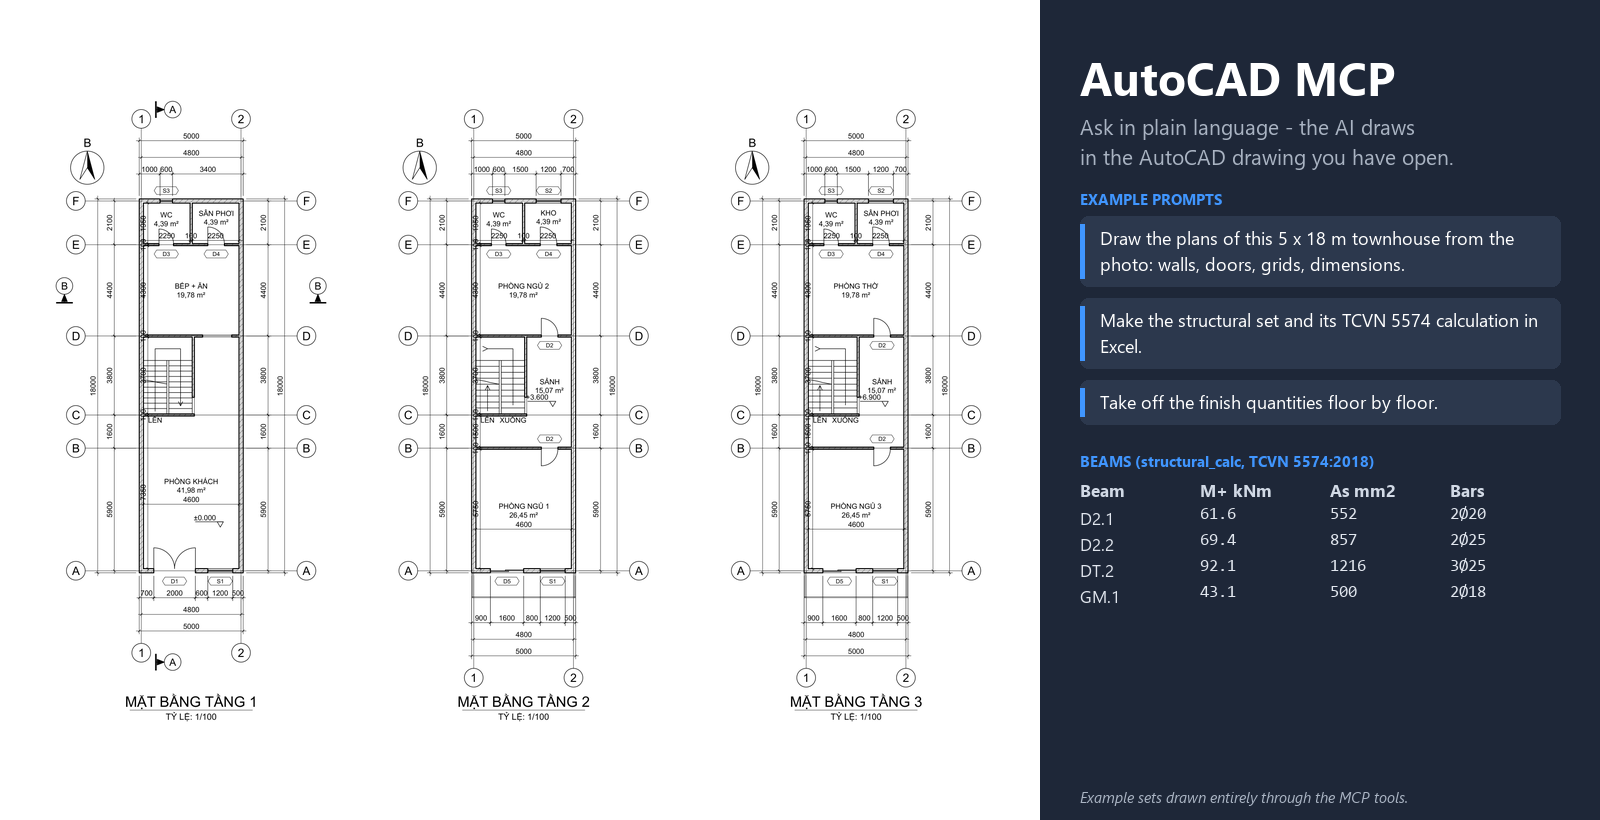
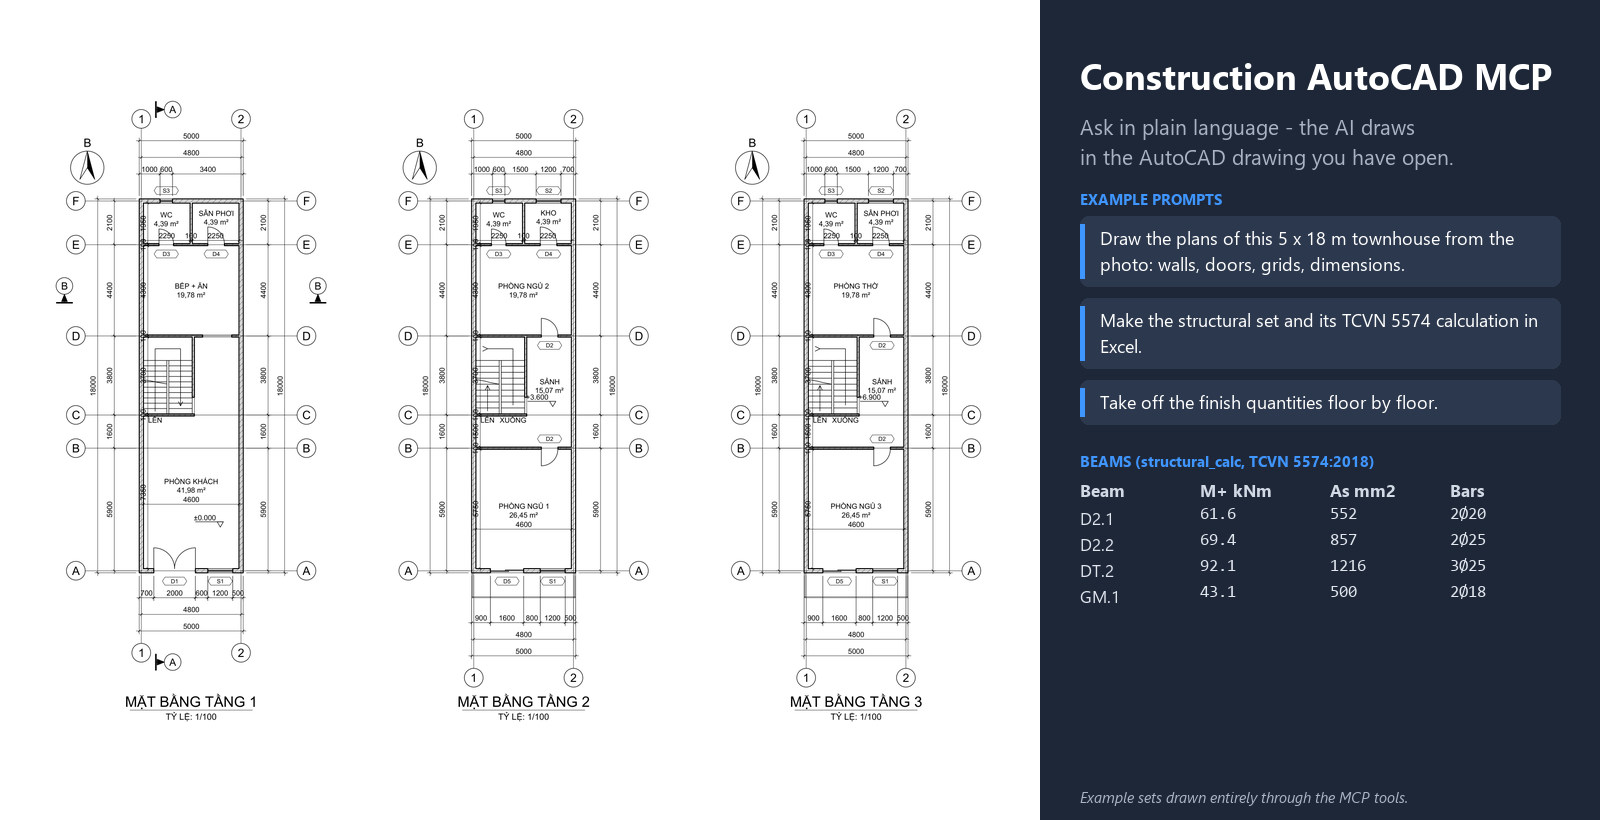
Construction AutoCAD MCP 1.2.1: rename from AutoCAD MCP
- Product name Construction AutoCAD MCP, package construction-autocad-mcp, repository
  2ez4gcx/construction-autocad-mcp; the extension asks to remove the old AutoCAD MCP one.
- MCP Registry: server.json publishes io.github.2ez4gcx/construction-autocad-mcp 1.2.1;
  the mcp-registry-status workflow deprecates the old io.github.2ez4gcx/autocad-mcp entry.
- README images carry the new name.

Changed region(s): [[0.6562, 0.061, 0.9688, 0.122]]

diff --git a/bridge/src/Bridge.cs b/bridge/src/Bridge.cs
@@ -86,7 +86,7 @@ namespace AcadMcp
 
     public static class Bridge
     {
-        public static readonly string VERSION = "1.2.0";
+        public static readonly string VERSION = "1.2.1";
         const int MaxRequestBytes = 64 * 1024 * 1024;
 
         static Control _ui;
@@ -415,7 +415,7 @@ namespace AcadMcp
             {
                 try { Bridge.Start(); } catch (Exception e) { Say("Cannot start: " + e.Message); }
             }
-            Say(Bridge.Status() + "  Set the same port in Claude (Settings > Extensions > AutoCAD MCP > Configure).");
+            Say(Bridge.Status() + "  Set the same port in Claude (Settings > Extensions > Construction AutoCAD MCP > Configure).");
         }
 
         [CommandMethod("MCPLOG", CommandFlags.Modal)]

diff --git a/README.vi.md b/README.vi.md
@@ -1,14 +1,14 @@
-# AutoCAD MCP
+# Construction AutoCAD MCP
 
 [English](README.md) | **Tiếng Việt**
 
-![AutoCAD MCP: yêu cầu bằng lời, AI vẽ trực tiếp trong bản vẽ AutoCAD đang mở](docs/images/hero.png)
+![Construction AutoCAD MCP: yêu cầu bằng lời, AI vẽ trực tiếp trong bản vẽ AutoCAD đang mở](docs/images/hero.png)
 
-AutoCAD MCP cho phép Claude làm việc trực tiếp trên bản vẽ đang mở trong AutoCAD. Việc chính của nó là triển khai bản vẽ: từ ảnh scan/ảnh chụp mặt bằng, bản phác tay, ảnh render hoặc mô hình 3D, Claude vẽ thành bản vẽ 2D hoàn chỉnh, đúng layer (tường giao nhau gọn với hatch vật liệu, cửa đi/cửa sổ cắt vào tường, cột, trục định vị có ký hiệu, cầu thang, phòng có diện tích đo từ tường, chuỗi kích thước, ký hiệu, khung tên và xuất PDF). Từ chính mặt bằng đó nó dựng mặt đứng, mặt cắt, vẽ chi tiết bê tông cốt thép (dầm, cột, móng) kèm bảng thống kê thép, và bộ hồ sơ thiết kế nội thất: mặt bằng bố trí nội thất, mặt bằng lát sàn, mặt bằng trần đèn, triển khai mặt đứng từng vách, chi tiết đồ gỗ và bảng thống kê vật liệu hoàn thiện. Ngoài ra nó đọc bản vẽ, bóc khối lượng theo layer/block và kiểm tra lỗi bản vẽ.
+Construction AutoCAD MCP cho phép Claude làm việc trực tiếp trên bản vẽ đang mở trong AutoCAD. Việc chính của nó là triển khai bản vẽ: từ ảnh scan/ảnh chụp mặt bằng, bản phác tay, ảnh render hoặc mô hình 3D, Claude vẽ thành bản vẽ 2D hoàn chỉnh, đúng layer (tường giao nhau gọn với hatch vật liệu, cửa đi/cửa sổ cắt vào tường, cột, trục định vị có ký hiệu, cầu thang, phòng có diện tích đo từ tường, chuỗi kích thước, ký hiệu, khung tên và xuất PDF). Từ chính mặt bằng đó nó dựng mặt đứng, mặt cắt, vẽ chi tiết bê tông cốt thép (dầm, cột, móng) kèm bảng thống kê thép, và bộ hồ sơ thiết kế nội thất: mặt bằng bố trí nội thất, mặt bằng lát sàn, mặt bằng trần đèn, triển khai mặt đứng từng vách, chi tiết đồ gỗ và bảng thống kê vật liệu hoàn thiện. Ngoài ra nó đọc bản vẽ, bóc khối lượng theo layer/block và kiểm tra lỗi bản vẽ.
 
 Cách hoạt động giống [SketchUp MCP](https://github.com/2ez4gcx/sketchup-mcp): một extension cho Claude Desktop (`.mcpb`, chạy trên Node.js có sẵn trong Claude Desktop) và một add-in nhỏ chạy bên trong AutoCAD (**ACAD MCP Bridge**, add-in .NET). Không cần cài Python hay Node.js.
 
-Phiên bản: **1.2.0** - [tải tại Releases](https://github.com/2ez4gcx/autocad-mcp/releases/latest). Có trong [MCP Registry](https://registry.modelcontextprotocol.io/v0.1/servers?search=io.github.2ez4gcx/autocad-mcp) chính thức với tên `io.github.2ez4gcx/autocad-mcp`.
+Phiên bản: **1.2.1** - [tải tại Releases](https://github.com/2ez4gcx/construction-autocad-mcp/releases/latest). Có trong [MCP Registry](https://registry.modelcontextprotocol.io/v0.1/servers?search=io.github.2ez4gcx/construction-autocad-mcp) chính thức với tên `io.github.2ez4gcx/construction-autocad-mcp`.
 
 ## Tính năng
 
@@ -160,7 +160,7 @@ Phiên bản: **1.2.0** - [tải tại Releases](https://github.com/2ez4gcx/auto
 Claude Desktop
     |  MCP qua stdio
     v
-autocad-mcp-1.2.0.mcpb        server MCP Node.js, chạy trên Node có sẵn trong Claude Desktop
+construction-autocad-mcp-1.2.1.mcpb        server MCP Node.js, chạy trên Node có sẵn trong Claude Desktop
     |  mỗi lệnh một yêu cầu JSON, TCP 127.0.0.1:9877 (chỉ trong máy)
     v
 ACAD MCP Bridge               add-in .NET trong AutoCAD (bundle tự nạp), chạy lệnh trên luồng chính của AutoCAD
@@ -179,11 +179,11 @@ Bridge chạy bên trong AutoCAD (không điều khiển qua COM từ bên ngoà
 
 ## Cài đặt
 
-1. **Cài extension vào Claude Desktop**: tải `autocad-mcp-1.2.0.mcpb` và `AcadMcpBridge-1.2.0.bundle.zip` ở [bản phát hành mới nhất](https://github.com/2ez4gcx/autocad-mcp/releases/latest), rồi vào *Settings > Extensions*, kéo thả file `.mcpb` vào cửa sổ (hoặc *Advanced settings > Install Extension...*), bấm *Install*. Bản build chưa ký số nên Claude Desktop có thể cảnh báo.
-2. **Cài bridge vào AutoCAD**: trong một cuộc trò chuyện mới, nhờ Claude *"Cài ACAD MCP Bridge vào AutoCAD"* (tool `install_autocad_bridge`). Tool chép `AcadMcpBridge.bundle` vào `%APPDATA%\Autodesk\ApplicationPlugins`, AutoCAD tự nạp khi khởi động. Cài tay: giải nén `AcadMcpBridge-1.2.0.bundle.zip` vào thư mục đó.
+1. **Cài extension vào Claude Desktop**: tải `construction-autocad-mcp-1.2.1.mcpb` và `AcadMcpBridge-1.2.1.bundle.zip` ở [bản phát hành mới nhất](https://github.com/2ez4gcx/construction-autocad-mcp/releases/latest), rồi vào *Settings > Extensions*, kéo thả file `.mcpb` vào cửa sổ (hoặc *Advanced settings > Install Extension...*), bấm *Install*. Bản build chưa ký số nên Claude Desktop có thể cảnh báo.
+2. **Cài bridge vào AutoCAD**: trong một cuộc trò chuyện mới, nhờ Claude *"Cài ACAD MCP Bridge vào AutoCAD"* (tool `install_autocad_bridge`). Tool chép `AcadMcpBridge.bundle` vào `%APPDATA%\Autodesk\ApplicationPlugins`, AutoCAD tự nạp khi khởi động. Cài tay: giải nén `AcadMcpBridge-1.2.1.bundle.zip` vào thư mục đó.
 3. **Khởi động lại AutoCAD.** Add-in chưa được ký số: khi AutoCAD hỏi về `AcadMcpBridge-1.2.0.dll`, chọn **Always Load**. Mỗi bản bridge mới là một file mới nên sau khi cập nhật AutoCAD sẽ hỏi lại một lần. (Muốn không bao giờ bị hỏi, có thể thêm thư mục bundle vào *Options > Files > Trusted Locations* nếu chính sách IT cho phép.) Gõ `MCPSTATUS` trong AutoCAD, phải thấy `ACAD MCP Bridge v1.2.0: RUNNING on 127.0.0.1:9877`. Sau đó nhờ Claude *"Ping AutoCAD"*.
 
-Tùy chọn ở *Settings > Extensions > AutoCAD MCP > Configure*: cổng bridge (mặc định 9877; nếu đổi thì gõ `MCPPORT` trong AutoCAD cho khớp) và thời gian chờ mỗi lệnh (mặc định 120 giây).
+Tùy chọn ở *Settings > Extensions > Construction AutoCAD MCP > Configure*: cổng bridge (mặc định 9877; nếu đổi thì gõ `MCPPORT` trong AutoCAD cho khớp) và thời gian chờ mỗi lệnh (mặc định 120 giây).
 
 Cập nhật: cài `.mcpb` mới, nhờ Claude cài lại bridge, khởi động lại AutoCAD.
 
@@ -222,7 +222,7 @@ Bridge chỉ nghe trên 127.0.0.1, không có xác thực (giống các bridge M
 ```bat
 cd mcpb
 npm ci
-npm run build    :: biên dịch bridge, đóng gói server, tạo dist/autocad-mcp-<version>.mcpb
+npm run build    :: biên dịch bridge, đóng gói server, tạo dist/construction-autocad-mcp-<version>.mcpb
 npm test         :: test bộ máy vẽ mặt bằng + smoke test server
 ```
 

diff --git a/README.md b/README.md
@@ -1,14 +1,14 @@
-# AutoCAD MCP
+# Construction AutoCAD MCP
 
 **English** | [Tiếng Việt](README.vi.md)
 
-![AutoCAD MCP: ask in plain language and the AI draws in your AutoCAD drawing](docs/images/hero.png)
+![Construction AutoCAD MCP: ask in plain language and the AI draws in your AutoCAD drawing](docs/images/hero.png)
 
-AutoCAD MCP lets Claude work directly in the drawing you have open in AutoCAD. Its main job is drafting: from a scanned or photographed plan, a sketch, a render or a 3D model, Claude draws a complete, layered 2D drawing (walls with clean junctions and material hatches, doors and windows cut into the walls, columns, grids with bubbles, stairs, rooms with measured areas, dimension chains, symbols, a sheet with a title block and a PDF). From the same plan it derives the elevations and sections, draws reinforced-concrete details (beams, columns, footings) with their bar schedule, and the interior design set: furniture layout, floor finish and ceiling plans, interior elevations of each wall, joinery shop drawings and the finish schedule. It also reads drawings, takes off quantities by layer and block, and checks drawings for common problems.
+Construction AutoCAD MCP lets Claude work directly in the drawing you have open in AutoCAD. Its main job is drafting: from a scanned or photographed plan, a sketch, a render or a 3D model, Claude draws a complete, layered 2D drawing (walls with clean junctions and material hatches, doors and windows cut into the walls, columns, grids with bubbles, stairs, rooms with measured areas, dimension chains, symbols, a sheet with a title block and a PDF). From the same plan it derives the elevations and sections, draws reinforced-concrete details (beams, columns, footings) with their bar schedule, and the interior design set: furniture layout, floor finish and ceiling plans, interior elevations of each wall, joinery shop drawings and the finish schedule. It also reads drawings, takes off quantities by layer and block, and checks drawings for common problems.
 
 It works like [SketchUp MCP](https://github.com/2ez4gcx/sketchup-mcp): a Claude Desktop extension (`.mcpb`) that runs on the Node.js built into Claude Desktop, plus a small add-in that runs inside AutoCAD (the **ACAD MCP Bridge**, a .NET add-in). No Python or Node.js install is needed.
 
-Current version: **1.2.0** - [download it from Releases](https://github.com/2ez4gcx/autocad-mcp/releases/latest). Also listed in the official [MCP Registry](https://registry.modelcontextprotocol.io/v0.1/servers?search=io.github.2ez4gcx/autocad-mcp) as `io.github.2ez4gcx/autocad-mcp`.
+Current version: **1.2.1** - [download it from Releases](https://github.com/2ez4gcx/construction-autocad-mcp/releases/latest). Also listed in the official [MCP Registry](https://registry.modelcontextprotocol.io/v0.1/servers?search=io.github.2ez4gcx/construction-autocad-mcp) as `io.github.2ez4gcx/construction-autocad-mcp`.
 
 ## Features
 
@@ -140,7 +140,7 @@ Highlights:
 Claude Desktop
     |  MCP over stdio
     v
-autocad-mcp-1.2.0.mcpb        Node.js MCP server, runs on the Node built into Claude Desktop
+construction-autocad-mcp-1.2.1.mcpb        Node.js MCP server, runs on the Node built into Claude Desktop
     |  one JSON request per command, TCP 127.0.0.1:9877 (localhost only)
     v
 ACAD MCP Bridge               .NET add-in inside AutoCAD (autoloader bundle), runs commands on AutoCAD's main thread
@@ -159,11 +159,11 @@ The bridge runs inside AutoCAD (not over COM from outside): every command runs o
 
 ## Install
 
-1. **Install the extension in Claude Desktop**: download `autocad-mcp-1.2.0.mcpb` and `AcadMcpBridge-1.2.0.bundle.zip` from the [latest release](https://github.com/2ez4gcx/autocad-mcp/releases/latest), then in *Settings > Extensions* drag and drop the `.mcpb` into the window (or *Advanced settings > Install Extension...*), click *Install*. The build is not code-signed, so Claude Desktop may warn about it.
-2. **Install the bridge in AutoCAD**: in a new chat ask Claude *"Install the ACAD MCP Bridge in AutoCAD"* (tool `install_autocad_bridge`). It copies `AcadMcpBridge.bundle` into `%APPDATA%\Autodesk\ApplicationPlugins`, which AutoCAD loads at startup. Manual install: unzip `AcadMcpBridge-1.2.0.bundle.zip` into that folder.
+1. **Install the extension in Claude Desktop**: download `construction-autocad-mcp-1.2.1.mcpb` and `AcadMcpBridge-1.2.1.bundle.zip` from the [latest release](https://github.com/2ez4gcx/construction-autocad-mcp/releases/latest), then in *Settings > Extensions* drag and drop the `.mcpb` into the window (or *Advanced settings > Install Extension...*), click *Install*. The build is not code-signed, so Claude Desktop may warn about it.
+2. **Install the bridge in AutoCAD**: in a new chat ask Claude *"Install the ACAD MCP Bridge in AutoCAD"* (tool `install_autocad_bridge`). It copies `AcadMcpBridge.bundle` into `%APPDATA%\Autodesk\ApplicationPlugins`, which AutoCAD loads at startup. Manual install: unzip `AcadMcpBridge-1.2.1.bundle.zip` into that folder.
 3. **Restart AutoCAD.** The add-in is not digitally signed: when AutoCAD asks about `AcadMcpBridge-1.2.0.dll`, choose **Always Load**. Each new bridge build is a new file, so AutoCAD asks again after an update. (To never be asked, you can add the bundle folder to *Options > Files > Trusted Locations*, if your IT policy allows it.) Type `MCPSTATUS` in AutoCAD: it should say `ACAD MCP Bridge v1.2.0: RUNNING on 127.0.0.1:9877`. Then ask Claude *"Ping AutoCAD"*.
 
-Options in *Settings > Extensions > AutoCAD MCP > Configure*: the bridge port (default 9877; if you change it, also type `MCPPORT` in AutoCAD) and the timeout per command (default 120 s).
+Options in *Settings > Extensions > Construction AutoCAD MCP > Configure*: the bridge port (default 9877; if you change it, also type `MCPPORT` in AutoCAD) and the timeout per command (default 120 s).
 
 To update: install the new `.mcpb`, ask Claude to install the bridge again, restart AutoCAD.
 
@@ -189,7 +189,7 @@ More prompts: [`mcpb/release-docs/SAMPLE_PROMPTS.md`](mcpb/release-docs/SAMPLE_P
 The server is a standard MCP server over stdio. Extract the `.mcpb` (it is a zip) and register `node <folder>/server/index.mjs`, for example in Claude Code:
 
 ```bat
-claude mcp add autocad --scope user -e AUTOCAD_MCP_TIMEOUT=120 -- node C:/Tools/autocad-mcp/server/index.mjs
+claude mcp add autocad --scope user -e AUTOCAD_MCP_TIMEOUT=120 -- node C:/Tools/construction-autocad-mcp/server/index.mjs
 ```
 
 Environment variables: `AUTOCAD_MCP_PORT` (default 9877), `AUTOCAD_MCP_TIMEOUT` (seconds, default 120).
@@ -212,7 +212,7 @@ The bridge listens on 127.0.0.1 only, without authentication, like other local M
 ```bat
 cd mcpb
 npm ci
-npm run build    :: compiles the bridge, bundles the server, packs dist/autocad-mcp-<version>.mcpb
+npm run build    :: compiles the bridge, bundles the server, packs dist/construction-autocad-mcp-<version>.mcpb
 npm test         :: plan engine unit tests + server smoke test
 ```
 

diff --git a/mcpb/release-docs/SAMPLE_PROMPTS.md b/mcpb/release-docs/SAMPLE_PROMPTS.md
@@ -1,4 +1,4 @@
-# AutoCAD MCP - sample prompts / câu lệnh mẫu
+# Construction AutoCAD MCP - sample prompts / câu lệnh mẫu
 
 ## Setup / Cài đặt
 
